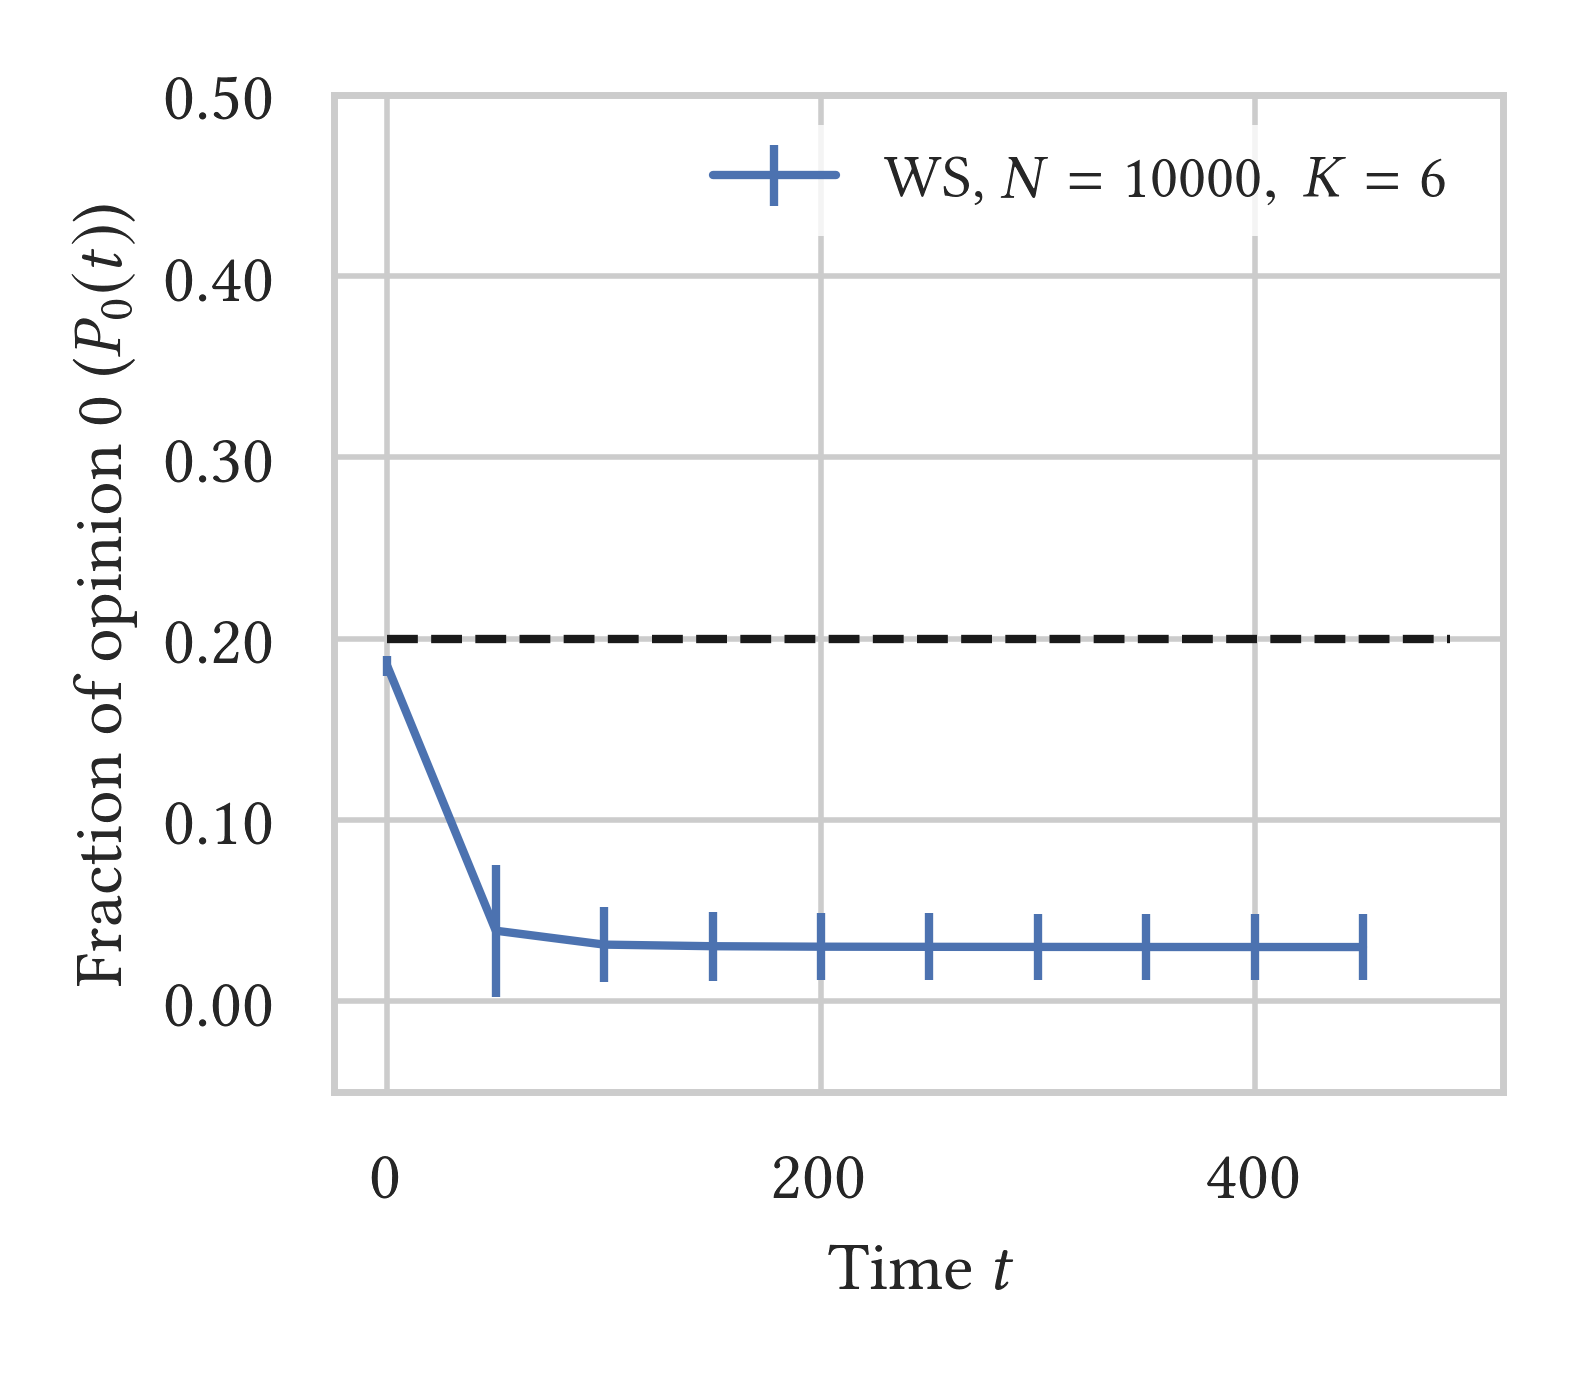
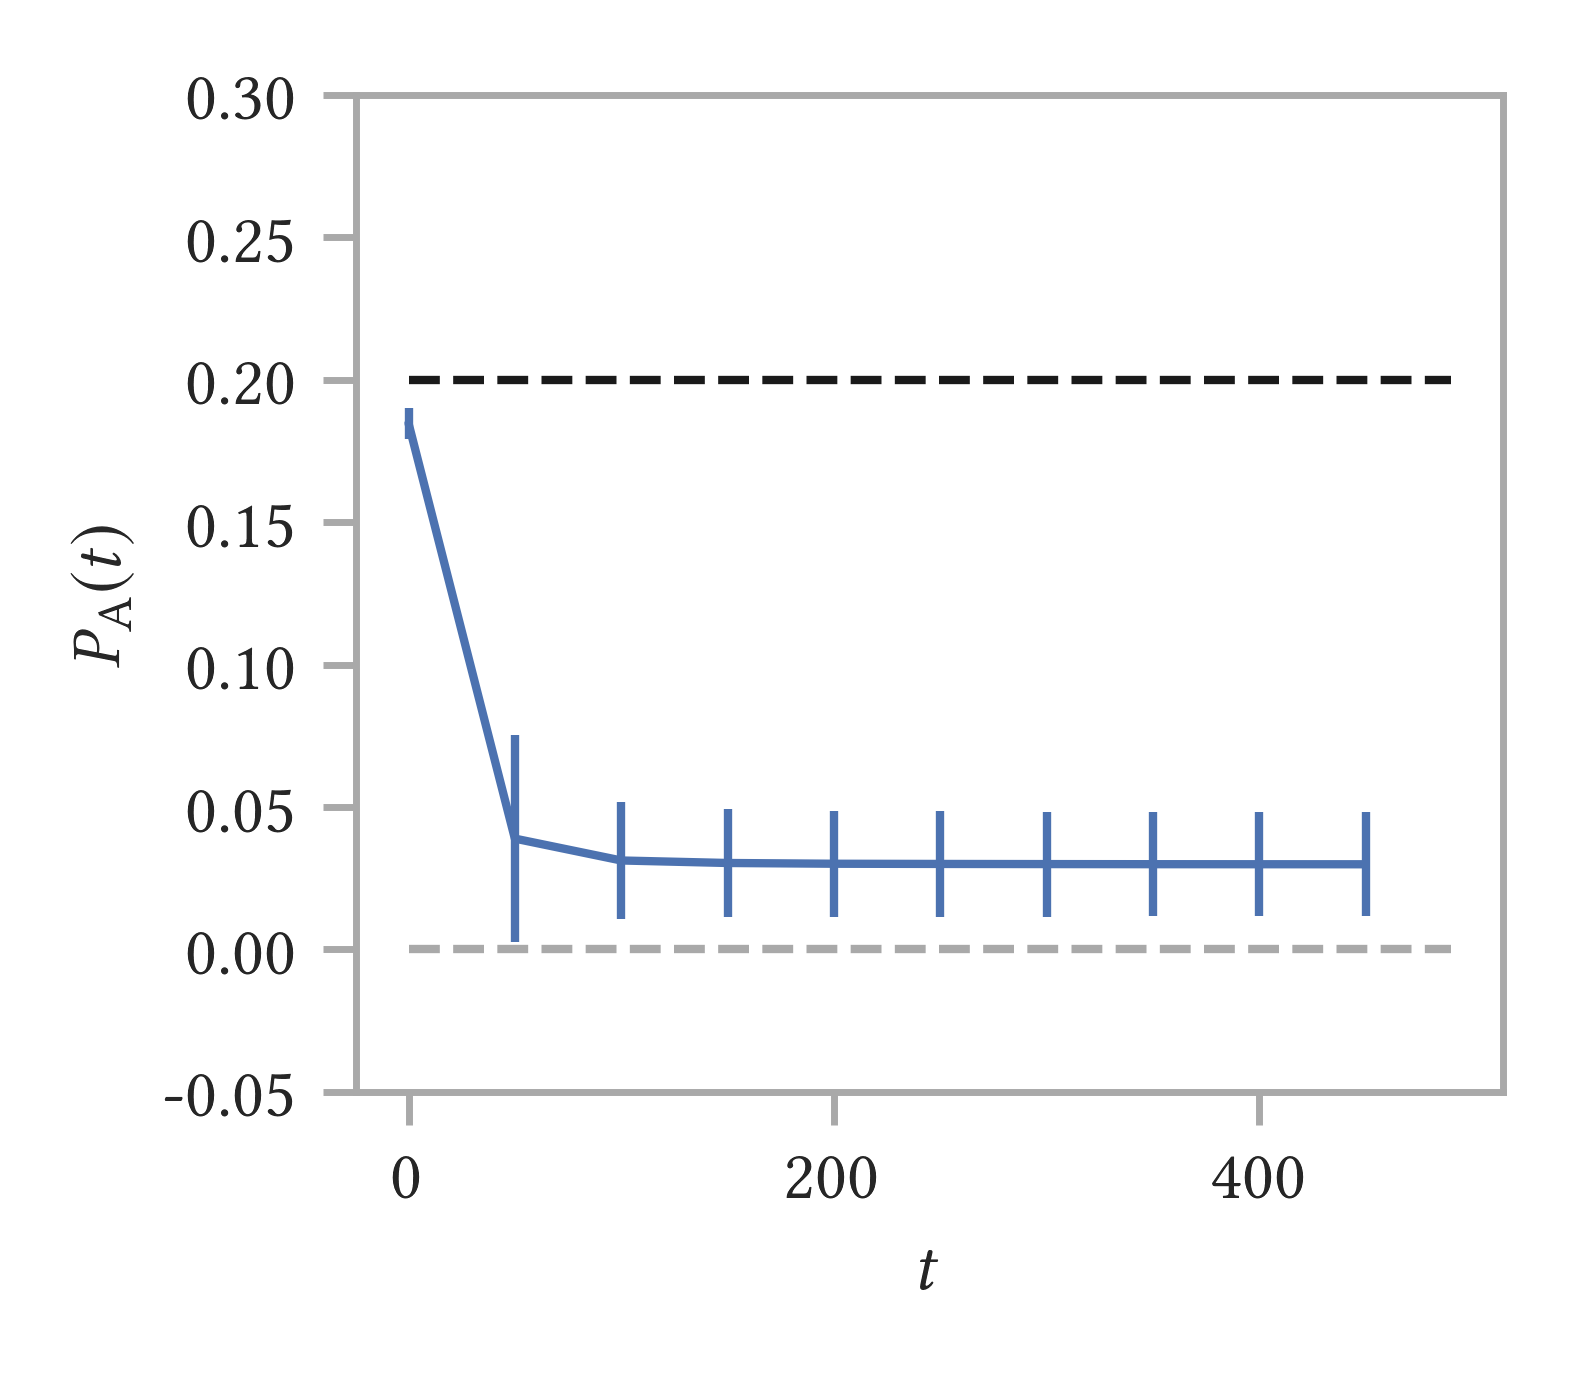
changed some thesis figures

diff --git a/Figures/Network_structure_WS_K=6_20-80_PR_op0_fraction/plot_opinion_fractions1.py b/Figures/Network_structure_WS_K=6_20-80_PR_op0_fraction/plot_opinion_fractions1.py
@@ -1,0 +1,151 @@
+import matplotlib.pyplot as plt
+import matplotlib.colors as colors
+import matplotlib
+import numpy as np
+import seaborn as sns
+from pathlib import Path
+import math
+import warnings
+from typing import Iterable, Optional
+from matplotlib.ticker import FormatStrFormatter
+
+def cm2inch(*tupl):
+    inch = 2.54
+    if isinstance(tupl[0], tuple):
+        return tuple(i/inch for i in tupl[0])
+    else:
+        return tuple(i/inch for i in tupl)
+
+
+def subplots(*args, figsize=None, **kwargs):
+    # figsize in cm instead of inches!
+    if figsize is not None:
+        return plt.subplots(*args, figsize=cm2inch(figsize), **kwargs)
+    else:
+        return plt.subplots(*args, **kwargs)
+
+
+def get_rc_params(usetex=True, font_family='serif', latex_preamble=None, font_serif=None, font_sans_serif=None,
+                  rc=None):
+    if rc is None:
+        rc = dict()
+    rc["text.usetex"] = usetex
+    rc["font.family"] = font_family
+    rc["axes.edgecolor"] = 'darkgrey'
+    if latex_preamble is not None:
+        rc["text.latex.preamble"] = latex_preamble
+    if font_serif is not None:
+        rc["font.serif"] = font_serif
+    if font_sans_serif is not None:
+        rc["font.sans-serif"] = font_sans_serif
+    return rc
+
+
+def get_latex_preamble(use_libertine=True, use_fontenc=True, use_inputenc=True, additional_pkgs=tuple()):
+    preamble = ''
+    if use_libertine:
+        preamble += r'\usepackage{libertine}' \
+                    r'\usepackage[libertine]{newtxmath}'
+
+    if use_fontenc:
+        preamble += r'\usepackage[T1]{fontenc}'
+
+    if use_inputenc:
+        preamble += r'\usepackage[utf8]{inputenc}'
+
+    for package in additional_pkgs:
+        if isinstance(package, str):
+            preamble += rf"\usepackage{{{package}}}"
+        elif isinstance(package, dict):
+            option = package["option"]
+            name = package["name"]
+            preamble += rf"\usepackage[{option}]{{{name}}}"
+        else:
+            raise ValueError(f"Unsupported type of package: {type(package)}!")
+    return preamble
+
+fractions1 = np.loadtxt('Fraction_of_opinions_active_01_av_good_init_WS_PR_10000-6-001_fracRes=0_stubb=0_20-80.txt')
+#fractions2 = np.loadtxt('Fraction_of_opinions_active_01_av_good_init_SBM_PR_003-0008_10x100_fracRes=0_stubb=0_20-80.txt')
+#fractions3 = np.loadtxt('Fraction_of_opinions_active_01_av_good_init_SBM_REC_01-0001_10x100_fracRes=0_stubb=0_20-80.txt')
+#fractions4 = np.loadtxt('Fraction_of_opinions_active_01_av_good_init_SBM_REC_003-0008_10x100_fracRes=0_stubb=0_20-80.txt')
+#fractions5 = np.loadtxt('Fraction_of_opinion0_comm_SBM_active_01_av_good_init_commOp0=05_other=50-50_PR_01-0001_10x100_T=0.txt')
+#fractions6 = np.loadtxt('Fraction_of_opinion0_comm_SBM_active_01_av_good_init_commOp0=06_other=50-50_PR_01-0001_10x100_T=0.txt')
+
+t = np.zeros(500)
+y = np.zeros(500)
+z = np.zeros(500)
+
+for i in range(len(t)):
+    t[i] = i
+    y[i] = 0.2
+    z[i] = 0
+
+
+
+rc_params = get_rc_params(latex_preamble=get_latex_preamble(use_libertine=True))
+sns.set_theme(font="DejaVu Serif", rc=rc_params, style="ticks", context="paper")
+
+fig, ax = subplots(figsize=(8, 7))
+
+ax.errorbar(t[::50], fractions1[:,0][::50], np.sqrt(fractions1[:,2][::50]))
+#ax.errorbar(t[::50], fractions2[:,0][::50], np.sqrt(fractions2[:,2][::50]), label=r'Low mod, PR')
+#ax.errorbar(t[::50], fractions3[:,0][::50], np.sqrt(fractions3[:,2][::50]), label=r'High mod, REC')
+#ax.errorbar(t[::50], fractions4[:,0][::50], np.sqrt(fractions4[:,2][::50]), label=r'Low mod, REC')
+
+'''ax.plot(t, fractions[:,0][::50], 'k', label=r'Average fraction opinion 0 at $t=0$')
+ax.plot(x, high_mod_rand, 'cornflowerblue', linestyle='--', label=r'High mod, random distributed')
+ax.plot(x, high_mod_comm, 'peru', linestyle='--', label=r'High mod, comm. distributed')
+ax.plot(x, low_mod_rand, 'forestgreen', linestyle='--', label=r'Low mod, random distributed')
+ax.plot(x, low_mod_comm, 'firebrick', linestyle='--', label=r'Low mod, comm. distributed')'''
+
+'''ax.errorbar(t[::50], fractions4[:,0][::50], np.sqrt(fractions1[:,2][::50]), label=r'High mod, $r = 0$')
+ax.errorbar(t[::50], fractions5[:,0][::50], np.sqrt(fractions2[:,2][::50]), label=r'High mod, $r = 0.4$')
+ax.errorbar(t[::50], fractions6[:,0][::50], np.sqrt(fractions3[:,2][::50]), label=r'High mod, $r = 0.8$')'''
+
+#ax.errorbar(t[::50], fractions7[:,0][::50], np.sqrt(fractions1[:,2][::50]), label=r'fracRes $= 0.8$')
+#ax.errorbar(t[::50], fractions8[:,0][::50], np.sqrt(fractions2[:,2][::50]), label=r'REF, fracRes $= 0.8$')
+#ax.errorbar(t[::50], fractions9[:,0][::50], np.sqrt(fractions3[:,2][::50]), label=r'fracRes $= 0.8$')
+#plt.plot(t[::10], fractions_sameComm02[:,0][::10], label='0.4 community opinion 0 (same comm.), other 50/50; REC')
+ax.plot(t[::10], y[::10], 'k--')
+ax.plot(t[::10], z[::10], 'darkgrey', linestyle='--')
+#plt.plot(t, fractions_25_av[:,0], label='Stubborness = 0.25')
+#plt.plot(t, fractions_1_av[:,1], label='Stubborness = 1')
+ax.set_xlabel(r"$t$", fontsize=10)
+ax.set_ylabel(r"$P_{\text{A}}(t)$", fontsize=10)
+ax.tick_params(labelsize=10, color='darkgrey')
+legend = ax.legend(loc='upper left')
+legend.get_frame().set_linewidth(0.0)
+ax.yaxis.set_major_formatter(FormatStrFormatter('%.2f'))
+#ax.set_ylim(0.4, 0.6)
+ax.set_ylim(-0.05, 0.3)
+#ax.set_title('WS', fontsize=10)
+plt.tight_layout()
+plt.savefig("fraction_of_opinions_WS_10000-6_PR_20-80_8x7.png", dpi=500)
+plt.show()
+
+"""fig, axes = plt.subplots(nrows=1, ncols=2, figsize=(10, 4))
+st = fig.suptitle("Stochastic block model (100 x 10), 10 x 10 averaged")
+#axes[0].plot(t, y)
+#axes[0].plot(t[::10], fractions_av0[:,0][::10], label='Opinion 0')
+axes[0].plot(t[::10], fractions_REC[:,1][::10], label='Opinion 1, REC')
+axes[0].legend(loc='best')
+axes[0].set_xlabel("Timesteps t")
+axes[0].set_ylabel("Opinion fraction inside a community, REC")
+axes[0].set_ylim(0.39, 0.55)
+axes[0].title.set_text("Opinion fraction inside a community vs time, REC, 50/50\n"r"$p_{cl}$ = 0.1, $p_{add}$ = 0.001")
+
+axes[1].plot(t[::10], fractions_PR[:,1][::10], label='Opinion 1, PR')
+#axes[1].plot(t[::10], fractions_av3[:,1][::10], label='Standard deviation')
+#axes[1].plot(t, y)
+axes[1].legend(loc='best')
+axes[1].set_xlabel("Timesteps t")
+axes[1].set_ylabel("Opinion fraction inside a community, PR")
+axes[1].set_ylim(0.40, 0.45)
+axes[1].title.set_text("Opinion fraction inside a community vs time, PR, 50/50\n"r"$p_{cl}$ = 0.1, $p_{add}$ = 0.001")
+# shift subplots down:
+st.set_y(0.03)
+fig.subplots_adjust(bottom=0.1)
+
+fig.tight_layout()
+fig.savefig('Fraction_of_opinions_Clustered_Cluster5_01-0001_50_50_no_stubb_paper8_active_01_av_good_init_100x10_REC_PR.png')
+plt.show()"""

diff --git a/Figures/Network_structure_echo_chambers_50-50/distr_friends_opinion1.py b/Figures/Network_structure_echo_chambers_50-50/distr_friends_opinion1.py
@@ -1,0 +1,113 @@
+import matplotlib.pyplot as plt
+import matplotlib.colors as colors
+import numpy as np
+import seaborn as sns
+from pathlib import Path
+import math
+import warnings
+from typing import Iterable, Optional
+from matplotlib.ticker import FormatStrFormatter
+
+def cm2inch(*tupl):
+    inch = 2.54
+    if isinstance(tupl[0], tuple):
+        return tuple(i/inch for i in tupl[0])
+    else:
+        return tuple(i/inch for i in tupl)
+
+
+def subplots(*args, figsize=None, **kwargs):
+    # figsize in cm instead of inches!
+    if figsize is not None:
+        return plt.subplots(*args, figsize=cm2inch(figsize), **kwargs)
+    else:
+        return plt.subplots(*args, **kwargs)
+
+
+def get_rc_params(usetex=True, font_family='serif', latex_preamble=None, font_serif=None, font_sans_serif=None,
+                  rc=None):
+    if rc is None:
+        rc = dict()
+    rc["text.usetex"] = usetex
+    rc["font.family"] = font_family
+    rc["axes.edgecolor"] = 'darkgrey'
+    if latex_preamble is not None:
+        rc["text.latex.preamble"] = latex_preamble
+    if font_serif is not None:
+        rc["font.serif"] = font_serif
+    if font_sans_serif is not None:
+        rc["font.sans-serif"] = font_sans_serif
+    return rc
+
+
+def get_latex_preamble(use_libertine=True, use_fontenc=True, use_inputenc=True, additional_pkgs=tuple()):
+    preamble = ''
+    if use_libertine:
+        preamble += r'\usepackage{libertine}' \
+                    r'\usepackage[libertine]{newtxmath}'
+
+    if use_fontenc:
+        preamble += r'\usepackage[T1]{fontenc}'
+
+    if use_inputenc:
+        preamble += r'\usepackage[utf8]{inputenc}'
+
+    for package in additional_pkgs:
+        if isinstance(package, str):
+            preamble += rf"\usepackage{{{package}}}"
+        elif isinstance(package, dict):
+            option = package["option"]
+            name = package["name"]
+            preamble += rf"\usepackage[{option}]{{{name}}}"
+        else:
+            raise ValueError(f"Unsupported type of package: {type(package)}!")
+    return preamble
+
+hist = np.loadtxt("Hist_500_and_0_fraction_friends_opinion1_ER_PR_001_all_res_stubb=0.txt")
+hist1 = np.loadtxt("Hist_500_and_0_fraction_friends_opinion1_SBM_PR_003-0008_10x100_all_res_stubb=0.txt")
+hist2 = np.loadtxt("Hist_500_and_0_fraction_friends_opinion1_SBM_PR_01-0001_10x100_probT=0.txt")
+hist3 = np.loadtxt("Hist_500_and_0_fraction_friends_opinion1_SBM-WS_PR_10-001-0001_10x100_T=0.txt")
+hist4 = np.loadtxt("Hist_500_and_0_fraction_friends_opinion1_WS_PR_10-006_T=0.txt")
+hist5 = np.loadtxt("Hist_500_and_0_fraction_friends_opinion1_WS_PR_10-001_T=0_test.txt")
+# probably need to change size of t and y back to 10!
+t = np.zeros(10)
+t1 = np.zeros(11)
+y = np.zeros(10)
+
+for i in range(10):
+    t[i] = i/10
+    y[i] = 1
+
+for i in range(11):
+    t1[i] = i/11
+
+
+rc_params = get_rc_params(latex_preamble=get_latex_preamble(use_libertine=True))
+sns.set_theme(font="DejaVu Serif", rc=rc_params, style="ticks", context="paper")
+
+fig, ax = subplots(figsize=(8, 7))
+
+ax.plot(t, hist[:,2], linestyle='solid', label=r"ER")
+ax.plot(t, hist1[:,2], linestyle='solid', label=r"SBM, low mod")
+ax.plot(t, hist2[:,2], linestyle='solid', label=r"SBM, high mod")
+ax.plot(t, hist3[:,2], linestyle='solid', label=r"SBM-WS")
+ax.plot(t1, hist4[:,2], linestyle='solid', label=r"WS, $\left<cc\right> = 0.557 \pm 0.007$")
+ax.plot(t, hist5[:,2], linestyle='solid', label=r"WS, $\left<cc\right> = 0.648 \pm 0.003$")
+ax.plot(t, y, 'k--')
+
+
+#ax.plot(t[::10], y[::10], 'k--')
+#plt.plot(t, fractions_25_av[:,0], label='Stubborness = 0.25')
+#plt.plot(t, fractions_1_av[:,1], label='Stubborness = 1')
+ax.set_xlabel(r"$\left<P_{\text{B}}^{\text{nn}}\right>$", fontsize=10)
+ax.set_ylabel(r"$F_N(\left<P_{\text{B}}^{\text{nn}}\right>)$", fontsize=10)
+#ax.set_yscale('log')
+ax.tick_params(labelsize=10, color='darkgrey')
+legend = ax.legend(loc='upper right')
+legend.get_frame().set_linewidth(0.0)
+#ax.yaxis.set_major_formatter(FormatStrFormatter('%.2f'))
+#ax.set_ylim(-0.5, 5)
+#ax.set_title('WS', fontsize=10)
+plt.tight_layout()
+plt.savefig("echo_chambers_no_stubb_50-50_PR_8x7.png", dpi=500)
+plt.show()
